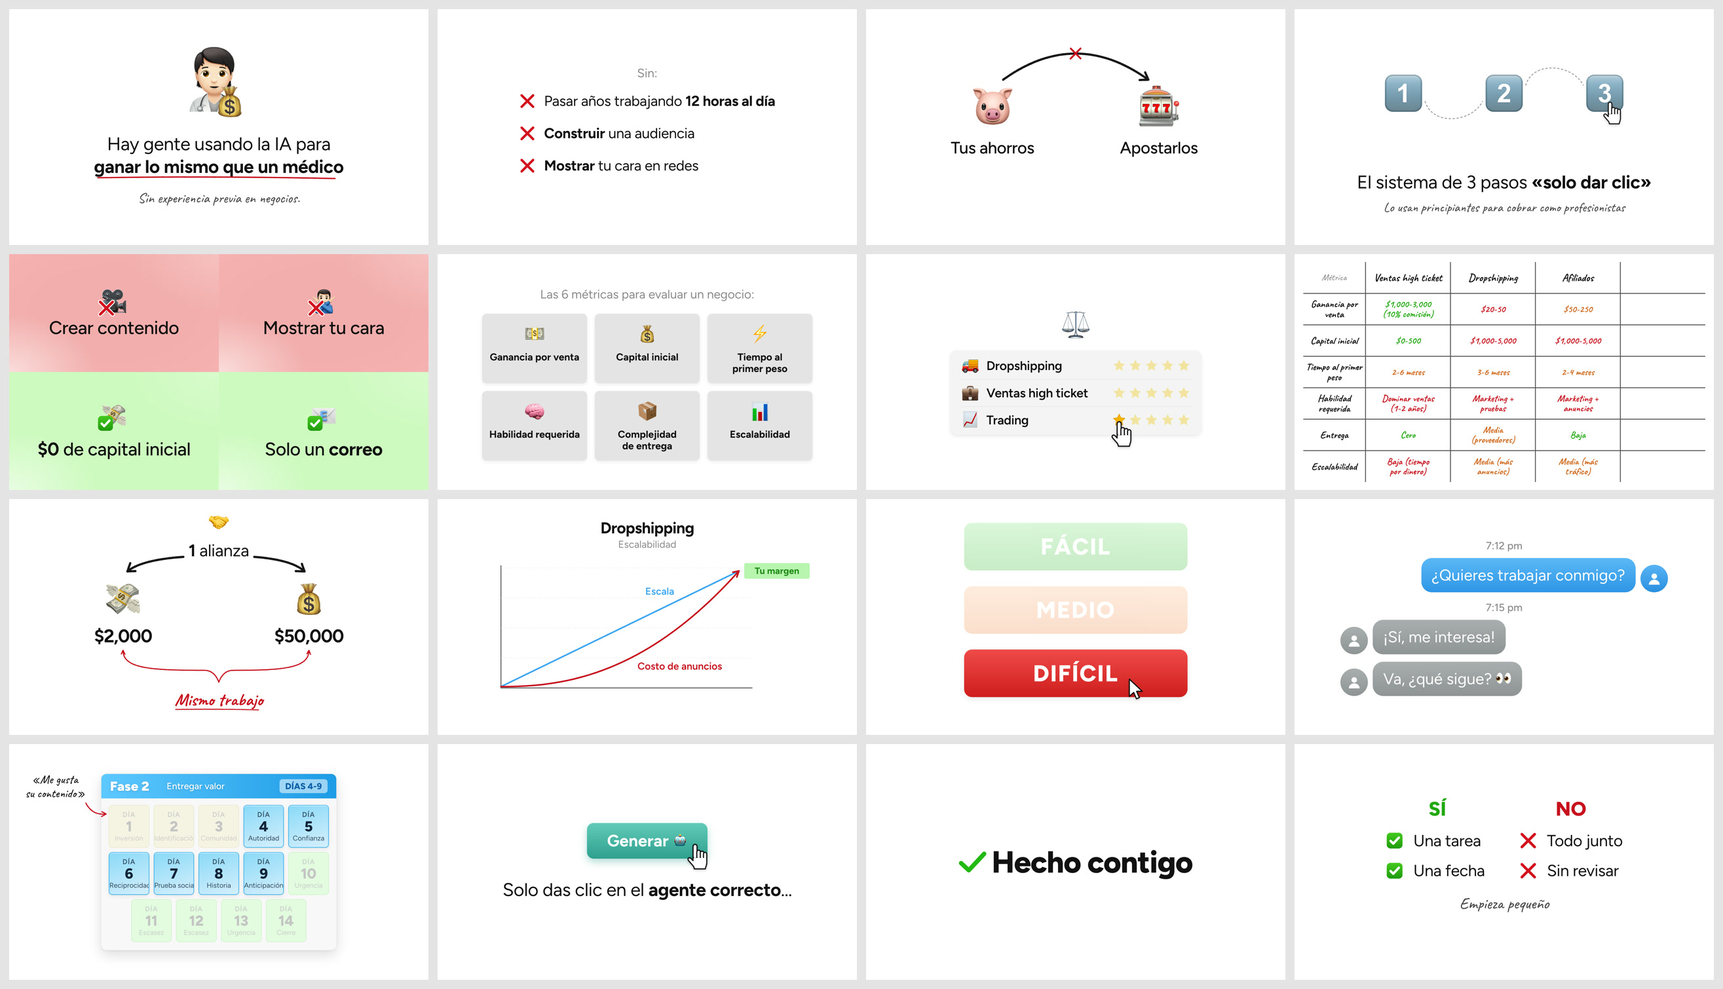
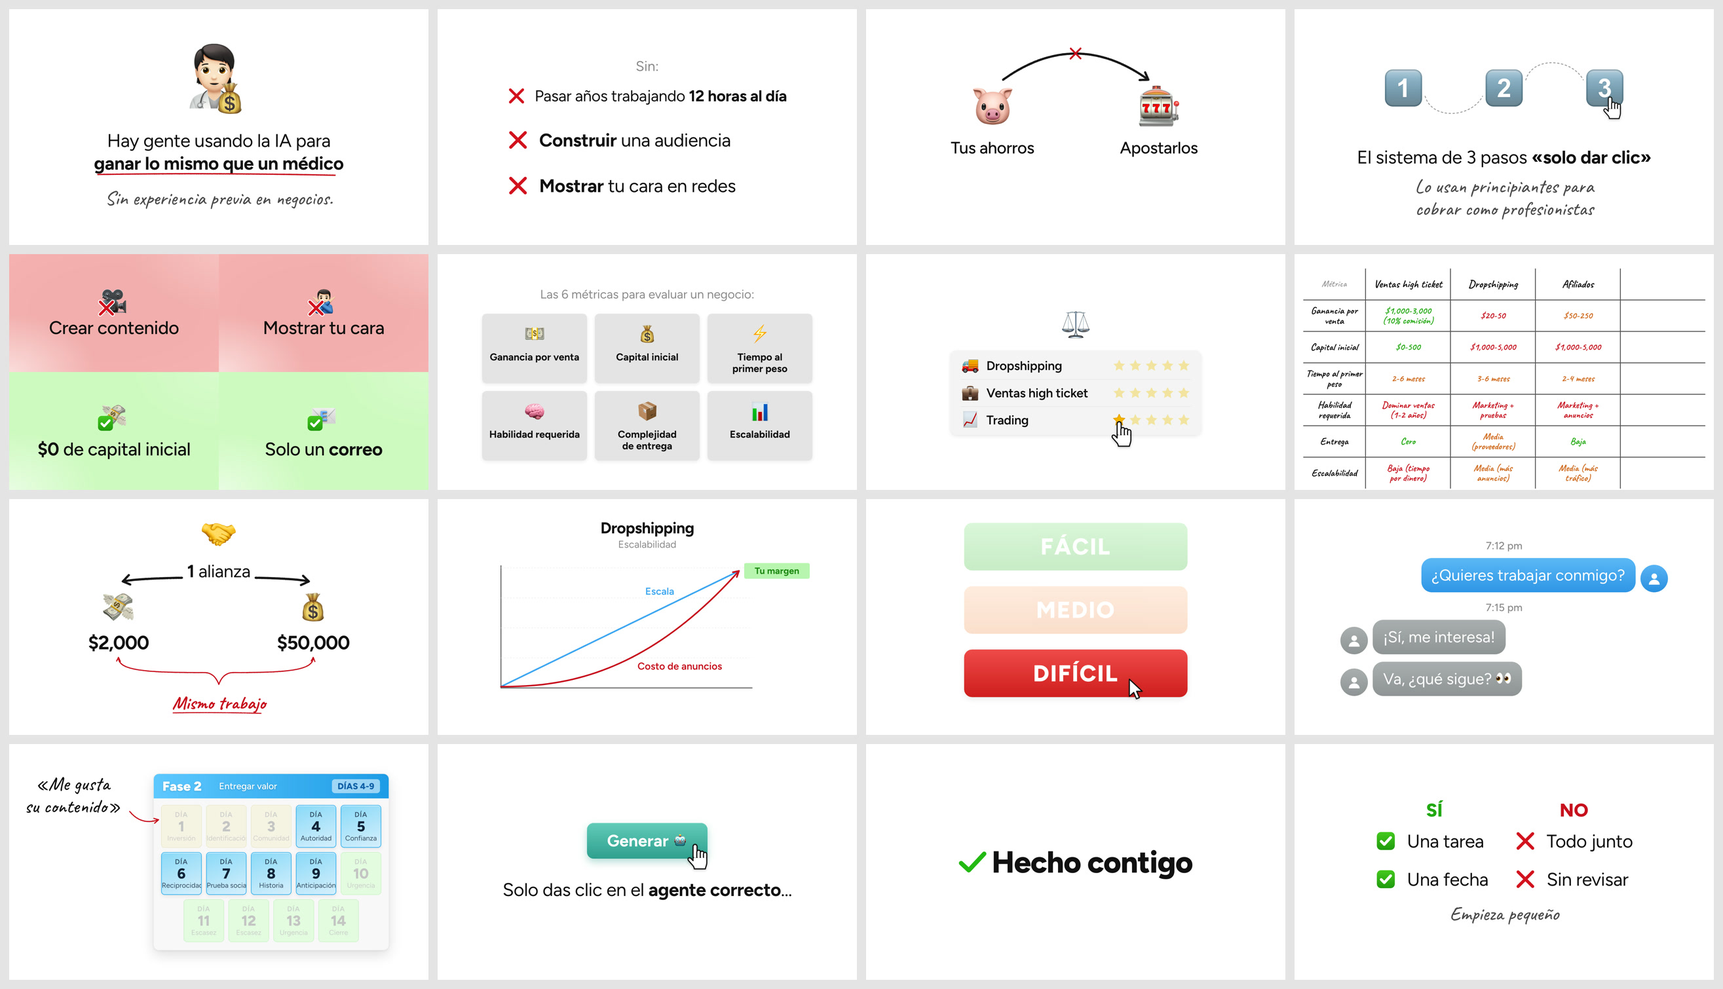
mejora(r13, codex): listas y columnas por ocupación, citas protagonistas, margen seguro y tramo en vivo legible
- Listas cortas y contraste de dos columnas crecen antes de encajar (84 px, bloque centrado);
  QA avisa por debajo de 64 px o del 45% del alto útil.
- Chat 9:16 al 84% del ancho útil en toda burbuja y escala coherente entre láminas (hasta 1.3x).
- La viñeta de una columna sigue su tono (cruz bajo título rojo); QA avisa una palomita bajo título rojo.
- Cita protagonista al tamaño del texto principal; anotaciones con piso de altura de x.
- Margen seguro de 6% arriba y abajo; consigna del tramo EN VIVO a 84 px; bifurcación a escala.
- templates/runtime-legibilidad.js; pruebas/r13-geometria.test.mjs. Suite: 549 aprobadas; demo 100.
- Pendiente: la regla de legibilidad infló la nota gris y bajó la réplica de 8/10 a 6/10
  elementos; se corrige en la ronda 14 (la referencia manda). No se publica a main todavía.

diff --git a/templates/runtime-legibilidad.js b/templates/runtime-legibilidad.js
@@ -1,0 +1,96 @@
+/* R13: crecer antes de encoger. Las medidas se toman con todas las entradas
+   presentes, para que el bloque no cambie de posición entre pasos. */
+function ampliarListas(lam) {
+  if (lam.dataset.tipo !== 'lista') return;
+  const lz = lam.querySelector(':scope > .lienzo'), bloque = lz?.firstElementChild;
+  const listas = [...(bloque?.querySelectorAll('.lista') || [])];
+  if (!listas.length || listas.some(l => l.children.length > 5)) return;
+  const items = listas.flatMap(l => [...l.children]);
+  if (items.some(e => e.textContent.trim().split(/\s+/).length > 10)) return;
+  const vertical = lam.offsetHeight > lam.offsetWidth;
+  const cs = getComputedStyle(lz), alto = lz.clientHeight-parseFloat(cs.paddingTop)-parseFloat(cs.paddingBottom);
+  const contraste = bloque.querySelector('.contraste');
+  if(contraste)contraste.dataset.filaCorta='2';
+  if (contraste && !vertical) {
+    // La nota de una llave larga vive debajo de las columnas: nunca obliga a
+    // reducir ambas columnas para caber en media pantalla.
+    contraste.querySelectorAll('.nota.roja').forEach(n => { bloque.appendChild(n); n.style.marginTop='140px'; });
+    contraste.style.gap='100px';
+  }
+  if (!vertical) {
+    items.forEach(e => { const lista=e.closest('.lista'); if(!lista.dataset.tamExplicito)e.style.fontSize=(e.textContent.trim().length>30?72:84)+'px'; });
+    listas.filter(l=>!l.dataset.gapExplicito).forEach(l => l.style.setProperty('--gap-lista', items.length<=3 ? '110px' : '76px'));
+    bloque.querySelectorAll('.encabezado').forEach(e=>e.style.fontSize='64px');
+    bloque.querySelectorAll('.contraste-titulo').forEach(e=>e.style.fontSize='84px');
+  }
+  const objetivo = lam.offsetHeight*.5;
+  const actual = bloque.getBoundingClientRect().height/escala(lam);
+  if (actual < objetivo && listas[0].children.length>1 && !(listas[0].dataset.gapExplicito && actual/alto>=.45)) {
+    const n = Math.max(...listas.map(l=>l.children.length));
+    listas.forEach(l=>l.style.setProperty('--gap-lista',(parseFloat(getComputedStyle(l).gap)+(objetivo-actual)/(n-1))+'px'));
+  }
+  if (lz.dataset.anclar!=='arriba') {
+    lz.style.justifyContent='center';
+    if (!vertical) { lz.style.paddingTop='68px'; lz.style.paddingBottom='68px'; }
+  }
+}
+
+function ajustarCaveat(lam) {
+  const ctx=document.createElement('canvas').getContext('2d');
+  ctx.font="400 84px Figtree";
+  const base=ctx.measureText('x').actualBoundingBoxAscent;
+  const principal=alturaPrincipal(lam)||base;
+  const notas=[...lam.querySelectorAll('*')].filter(e=>e.textContent.trim() && /Caveat/i.test(getComputedStyle(e).fontFamily) && !/Caveat/i.test(getComputedStyle(e.parentElement).fontFamily));
+  notas.forEach(e=>{
+    if(e.matches('.nota') && getComputedStyle(e).position==='absolute' && e.closest('.lz-calendario')) { e.style.maxWidth='500px'; e.style.left='40px'; e.style.textWrap='balance'; if(lam.offsetHeight>lam.offsetWidth){e.style.maxWidth='760px';} else {const cal=lam.querySelector('.calendario');cal.style.position='relative';cal.style.left='240px';} }
+    const protagonista=e.dataset.a==='cita';
+    const objetivo=protagonista?base:principal*.76;
+    const actual=alturaX(e,lam), tam=parseFloat(getComputedStyle(e).fontSize);
+    if(actual<objetivo) { e.style.setProperty(e.matches('.nota')?'--tn':'font-size',Math.ceil(tam*objetivo/(actual||1)+1)+'px'); if(e.matches('.nota') && alturaX(e,lam)<objetivo)e.style.fontSize='var(--tn)'; }
+  });
+  // Cuando la nota del mapa gana un segundo renglón, cede el aire entre
+  // teclas y titular. La letra conserva su ojo; el conjunto no crece hacia el borde.
+  const titulo=lam.querySelector('.lz-pasos > .pila > .mt-t');
+  const notaMapa=titulo?.nextElementSibling?.querySelector('.nota');
+  if(lam.offsetWidth>lam.offsetHeight && notaMapa && rectsTexto(notaMapa,lam).length>1)titulo.style.marginTop='180px';
+}
+
+function ajustarConsigna(lam) {
+  if(!lam.dataset.vivo)return;
+
+  const bloque=lam.querySelector('.vivo-pres'), reloj=bloque?.querySelector('.vivo-reloj');
+  if(!bloque)return;
+  bloque.style.setProperty('--t-vivo','84px');
+  bloque.style.gap='36px';
+  // El reloj cede espacio antes que la instrucción que debe ejecutar el público.
+  if(reloj)reloj.style.width='360px';
+}
+
+function coherenciaChats(lams) {
+  const escenas=lams.filter(l=>l.offsetHeight>l.offsetWidth && l.querySelector('.lz-chat > .pila > .chat:not(.chat-muro)'));
+  const burbujas=l=>[...l.querySelectorAll('.lz-chat > .pila > .chat:not(.chat-muro) .msj .burbuja')];
+  for(const l of escenas) {
+    const bs=burbujas(l),chat=l.querySelector('.chat'),pila=chat.parentElement;
+    const largo=bs.some(b=>b.textContent.trim().split(/\s+/).length>8);
+    bs.forEach(b=>b.closest('.msj').classList.toggle('msj-ancho',largo));
+    chat.style.gap=bs.some(b=>b.closest('.msj').classList.contains('msj-ancho'))?'64px':'160px';
+    if(bs.length===1 && bs[0].textContent.trim().split(/\s+/).length>8)bs[0].style.fontSize='100px';
+    const alto=l.offsetHeight-640;
+    for(let n=0;n<25 && pila.getBoundingClientRect().height/escala(l)>alto;n++) {
+      bs.forEach(b=>b.style.fontSize=(parseFloat(getComputedStyle(b).fontSize)*.96)+'px');
+    }
+  }
+  const chats=escenas.flatMap(burbujas);
+  if(!chats.length)return;
+  const minimo=Math.min(...chats.map(b=>parseFloat(getComputedStyle(b).fontSize)));
+  chats.forEach(b=>{if(parseFloat(getComputedStyle(b).fontSize)>minimo*1.3)b.style.fontSize=(minimo*1.3)+'px';});
+}
+
+function respetarMargen(lam) {
+  if(lam.offsetHeight>lam.offsetWidth||lam.dataset.vivo)return;
+  const lz=lam.querySelector(':scope > .lienzo'), bloque=lz?.firstElementChild;
+  if(!bloque||bloque.matches('.sangre,.cuadrantes'))return;
+  const r=caja(bloque,lam),m=lam.offsetHeight*.06+1;
+  const dy=r.y<m?m-r.y:r.y+r.h>lam.offsetHeight-m?lam.offsetHeight-m-r.y-r.h:0;
+  if(dy){bloque.style.position='relative';bloque.style.top=((parseFloat(bloque.style.top)||0)+dy/(parseFloat(getComputedStyle(bloque).zoom)||1))+'px';}
+}

diff --git a/templates/runtime.js b/templates/runtime.js
@@ -611,7 +611,7 @@
   // pisa y un aviso. Antes el borde la regresaba ENCIMA de la tarjeta y su gancho tachaba la propia nota [r5, muro 14].
   const OBST_ANOT = '.emo, img, .t, .t-remate, .llamada-tarjeta, .meses, .nota, .item, .etiqueta, .valor, .encabezado, .cifra, .etiqueta-chica, .tarjeta, .opcion, .burbuja, .titulo-marca, .fuente, .captura, .post, .sello, .tabla, .rejilla, .bento, .cuadro, .grafica svg, .dia';
   function colocarAnotaciones(lam) {
-    const W = lam.offsetWidth, H = lam.offsetHeight, m = 40, aire = 130;
+    const W = lam.offsetWidth, H = lam.offsetHeight, m = Math.max(40, H * .06), aire = 130;
     const cruce = (a, b) => Math.max(0, Math.min(a.x + a.w, b.x + b.w) - Math.max(a.x, b.x)) * Math.max(0, Math.min(a.y + a.h, b.y + b.h) - Math.max(a.y, b.y));
     const gapR = (a, b) => Math.hypot(Math.max(0, a.x - (b.x + b.w), b.x - (a.x + a.w)), Math.max(0, a.y - (b.y + b.h), b.y - (a.y + a.h)));
     const puestas = [];
@@ -662,7 +662,7 @@
       if (base > minimo) tams.push(minimo);
       for (const tn of tams) {
         if (tn !== base) n.style.setProperty('--tn', tn + 'px');
-        for (const ancho of [760, 640, 500, 400, 320]) {
+        for (const ancho of [760, 640, 500, 400, 320, W-2*m]) {
           n.style.maxWidth = ancho + 'px';
           elegido = lados.flatMap(lado => [0, -160, 160, -320, 320, -480, 480].map(d => probar(lado, d))).find(c => c.ok) || null;
           if (elegido) break;
@@ -672,7 +672,7 @@
       if (!elegido) {
         // Abre una banda real bajo el bloque; no achica letra ni acorta flechas.
         const bloque=lam.querySelector(':scope > .lienzo')?.firstElementChild;
-        n.style.maxWidth='760px'; n.style.setProperty('--tn',base+'px');
+        n.style.maxWidth=(W-2*m)+'px'; n.style.setProperty('--tn',minimo+'px');
         if(bloque && bloque.contains(el)){
           const desplazamiento=Math.min(Math.max(0,A0.y+A0.h+aire+n.offsetHeight-(H-m)),Math.max(0,caja(bloque,lam).y-m));
           if(desplazamiento>0){
@@ -774,6 +774,7 @@
   }
 
   function encajar(lam) {
+    if (lam.dataset.vivo) return;
     // En sala se divide el calendario o la fila de meses; no se achican sus celdas.
     if (document.body.classList.contains('sala') && ['calendario', 'meses'].includes(lam.dataset.tipo)) return;
     [lam, ...lam.querySelectorAll('.escena')].forEach(esc => esc.querySelectorAll(':scope > .lienzo').forEach(lz => {
@@ -794,7 +795,7 @@
       });
       const w = (x1 - x0) / s, hh = (y1 - y0) / s;
       const k = Math.min(1, aw / w, (ah + 40) / hh);
-      if (k < 0.995) { h.style.zoom = k.toFixed(3); if (esc === lam) lam.dataset.encaje = k.toFixed(2); }
+      if (k < 0.995) { h.style.zoom = ((parseFloat(getComputedStyle(h).zoom)||1)*k).toFixed(3); if (esc === lam) lam.dataset.encaje = k.toFixed(2); }
     }));
   }
 
@@ -1073,15 +1074,17 @@
     lams.forEach(l => { fijarDescargos(l); ajustarChatVertical(l); ajustarPalabrasChat(l); });
     // Una lámina con un error no tumba al resto: se avisa y se sigue
     lams.forEach(l => { try { abrirEspacioSubrayados(l,l); igualarFilas(l); } catch (e) { avisos.push(`lámina ${+l.dataset.i + 1}: fila (${e.message})`); } });
+    lams.forEach(l => { ampliarListas(l); ajustarConsigna(l); });
+    coherenciaChats(lams);
     lams.forEach(l => { try { ampliarFilas(l); alinearFlujoMixto(l); } catch (e) { avisos.push(`lámina ${+l.dataset.i + 1}: escala de fila (${e.message})`); } });
     lams.forEach(l => { try { colocarSignos(l); } catch (e) { avisos.push(`lámina ${+l.dataset.i + 1}: signos (${e.message})`); } });
     lams.forEach(l => { try { igualarCuadros(l); } catch (e) { avisos.push(`lámina ${+l.dataset.i + 1}: cuadrantes (${e.message})`); } });
     lams.forEach(l => { try { ajustarCifras(l); } catch (e) { avisos.push(`lámina ${+l.dataset.i + 1}: cifra (${e.message})`); } });
-    lams.forEach(l => { try { ajustarNotasLlave(l); } catch (e) { avisos.push(`lámina ${+l.dataset.i + 1}: nota de llave (${e.message})`); } });
+    lams.forEach(l => { try { ajustarCaveat(l); ajustarNotasLlave(l); } catch (e) { avisos.push(`lámina ${+l.dataset.i + 1}: nota de llave (${e.message})`); } });
     lams.forEach(l => { try { ajustarTablas(l); } catch (e) { avisos.push(`lámina ${+l.dataset.i + 1}: tabla (${e.message})`); } });
     lams.forEach(l => { try { ajustarFirma(l); } catch (e) { avisos.push(`lámina ${+l.dataset.i + 1}: firma (${e.message})`); } });
     lams.forEach(l => { try { encajar(l); } catch (e) { avisos.push(`lámina ${+l.dataset.i + 1}: encaje (${e.message})`); } });
-    lams.forEach(l => { try { reservarSelloLibre(l); } catch (e) { avisos.push(`lámina ${+l.dataset.i + 1}: sitio del sello (${e.message})`); } });
+    lams.forEach(l => { try { respetarMargen(l); reservarSelloLibre(l); } catch (e) { avisos.push(`lámina ${+l.dataset.i + 1}: sitio del sello (${e.message})`); } });
     // Primero las láminas normales; el foco, después: su fondo copia el sello y las notas ya colocados de la anterior
     const esFoco = l => !!l.querySelector(':scope > .escena.clon');
     const capa = l => {

diff --git a/templates/base.css b/templates/base.css
@@ -822,3 +822,24 @@ body.sala .objeto-logos img { height: 52px !important; }
 .lamina:not(.f-vertical) .lz-lista[data-anclar="arriba"] .encabezado { margin-bottom:100px; }
 /* La frase protagonista usa un plumón de 6 px [ref_10], legible al reducir. */
 .lamina:has(.lz-idea) .capa-mano path[data-clase="subrayado"] { stroke-width:6px; }
+
+/* R13: 84% del ancho útil para cada burbuja. En mensajes largos el avatar
+   pasa encima y deja ancho real al texto antes de reducir su letra. */
+.f-vertical .lienzo.lz-chat { padding-left:30px; padding-right:30px; }
+.f-vertical .lienzo.lz-chat:has(.chat-tarjeta) { padding-left:90px; padding-right:90px; }
+.f-vertical .lz-chat > .pila > .chat:not(.chat-muro) .burbuja { width:84%; max-width:84%; }
+.f-vertical .lz-chat > .pila > .chat:not(.chat-muro) .msj {
+  width:100%; position:relative; display:flex; flex-direction:column;
+  align-items:center; padding-top:151px; gap:0;
+}
+.f-vertical .lz-chat > .pila > .chat:not(.chat-muro) .yo-av,
+.f-vertical .lz-chat > .pila > .chat:not(.chat-muro) .otro-av {
+  width:var(--av,135px); flex:none; position:absolute; top:0;
+}
+.f-vertical .lz-chat > .pila > .chat:not(.chat-muro) .yo-av { right:8%; }
+.f-vertical .lz-chat > .pila > .chat:not(.chat-muro) .otro-av { left:8%; }
+.f-vertical .lz-chat > .pila > .chat:not(.chat-muro) .msj:not(.msj-ancho) {
+  flex-direction:row; align-items:flex-end; padding-top:0; gap:16px;
+}
+.f-vertical .lz-chat > .pila > .chat:not(.chat-muro) .msj:not(.msj-ancho) .yo-av,
+.f-vertical .lz-chat > .pila > .chat:not(.chat-muro) .msj:not(.msj-ancho) .otro-av { position:static; }

diff --git a/templates/runtime-filas.js b/templates/runtime-filas.js
@@ -3,7 +3,7 @@
 function ampliarFilas(lam) {
   if (lam.offsetWidth < lam.offsetHeight) return;
   const tipos = ['pasos', 'flujo', 'bifurcacion', 'opciones', 'rejilla', 'lista', 'circulos'];
-  if (!tipos.includes(lam.dataset.tipo)) return;
+  if (!tipos.includes(lam.dataset.tipo) || lam.dataset.tipo === 'lista') return;
   const lz = lam.querySelector(':scope > .lienzo');
   if (lam.dataset.tipo === 'opciones' && lz?.children.length > 1) {
     const hijos = [...lz.children], envoltura = document.createElement('div');
@@ -30,10 +30,11 @@ function ampliarFilas(lam) {
   });
   // Las teclas y el mapa ya están calibrados; un flujo sin flechas heredaba 120 px.
   if (['flujo', 'bifurcacion'].includes(lam.dataset.tipo)) {
-    fila.querySelectorAll('.emo').forEach(e => {
+    (lam.dataset.tipo==='bifurcacion'?bloque:fila).querySelectorAll('.emo').forEach(e => {
       if (!e.closest('.insignia') && e.offsetWidth < 210) e.style.setProperty('--s', '210px');
     });
   }
+  if(lam.dataset.tipo==='bifurcacion') { fila.style.marginTop='40px'; bloque.querySelectorAll('.nodo .emo').forEach(e=>e.style.setProperty('--s',e.closest('.fila')?'180px':'200px')); bloque.querySelectorAll('.etiqueta').forEach(e=>e.style.fontSize='84px'); bloque.querySelectorAll('.nota.roja').forEach(e=>e.style.marginTop='200px'); }
   const s = escala(lam), cajas = nodos.map(e => e.getBoundingClientRect());
   const anchoTinta = (Math.max(...cajas.map(r => r.right)) - Math.min(...cajas.map(r => r.left))) / s;
   const b = bloque.getBoundingClientRect();

diff --git a/references/ESTILO.md b/references/ESTILO.md
@@ -338,3 +338,33 @@ QA avisa runs `{v:…}` sin cifra, moneda, porcentaje, sí/ok/✓ o verbo de res
 lograr). `{r:…}` pide una cifra negativa, no/✕, pérdida explícita o señal conectada (flecha, llave o subrayado).
 También avisa cuatro palabras largas consecutivas en mayúsculas en idea/lista/cifra/pasos. Sellos, secciones,
 stack, calendario, huecos, siglas cortas o con dígitos quedan fuera. Son avisos de lectura, no errores.
+
+### Legibilidad y ocupación verificable (ronda 13)
+
+Estas medidas se aplican después del encaje, no solo al CSS nominal:
+
+| Composición | Objetivo del motor | Aviso de QA |
+|---|---|---|
+| Lista de ≤5 renglones, cada uno ≤10 palabras | 72–84 px en 16:9; bloque centrado | Letra <64 px a 1920 o alto <45% del útil |
+| Contraste de dos columnas cortas | Misma ocupación; título acompaña; nota debajo | Mismos pisos; ✅ bajo título rojo |
+| Chat normal 9:16 | Cada burbuja al 84% del ancho útil; avatar arriba si hace falta | Fuera de 82–86%; escala del deck >1.3× |
+| Caveat con contenido | x ≥75% de la principal | x por debajo de 75% |
+| Cita protagonista | x de texto principal (Figtree 84 px de referencia) | x por debajo de 100% |
+| Contenido 16:9 | ≥6% arriba y abajo | Contenido medido fuera del margen |
+| Consigna en vivo | 84 px; reloj de 360 px | Consigna <64 px a 1920 |
+| Bifurcación horizontal | Origen de 200 px, rótulos de 84 px antes de encajar | Origen <170 px o rótulo <64 px efectivos |
+
+El alto de lista reserva todos sus pasos, aunque todavía no se vean. Un anclaje superior
+explícito conserva su intención. Un tamaño explícito se respeta y QA avisa si incumple.
+El encabezado gris crece con los renglones; el blanco restante se reparte alrededor del bloque.
+No agrandes primero las separaciones si todavía tienes letra pequeña.
+
+La regla del chat se refiere a conversaciones normales, no al muro, al celular ilustrado ni a
+la tarjeta de prompt. Los mensajes largos usan el ancho antes de reducir la letra; la escala
+común se calcula entre las conversaciones del deck completo, aunque haya otras escenas en medio.
+
+Referencia medida por caja de tinta, sin firma de esquina: lista tachada `m_256`, 48.33% de
+alto y márgenes 26.39/25.28%; `ref_95` (primer paso), 13.89/63.98%; `ref_1760`, 6.02/30.56%.
+El mínimo de 6% protege el contenido; los fondos a sangre y la firma tienen sus zonas propias.
+El QA automático de margen cubre texto principal, listas, notas, burbujas, emojis, rótulos,
+anotaciones y tramo en vivo. No sustituye revisar imágenes, tablas y trazos en las hojas.

diff --git a/LECCIONES.md b/LECCIONES.md
@@ -291,3 +291,23 @@ de una fuente no puede borrar el beat que antes ocupaba: conserva pasos y voz o 
 - **Cómo se comprobó**: decks nuevos antes y después, capturas dentro de Codex, hojas finales y de pasos abiertas, pruebas de regresión vistas fallar antes del arreglo y réplica medida contra sus cuadros.
 
 - **Cierre adicional de la ronda 9**: una lista de 20 palabras con tres viñetas numeradas suma 23 visibles. El preflight ahora cuenta las listas simples con el mismo criterio; la explicación se conserva en voz y el texto se comprime. Esto se encontró después del primer render de una clase: su primera nota no se reemplaza por la corregida.
+
+## 2026-09-25 · El 100 no detectaba letra pequeña con mucho blanco (ronda 13)
+
+- **Regla:** una lista de hasta cinco renglones cortos crece antes de encajar. En horizontal,
+  objetivo de 72–84 px, piso QA de 64 y bloque de al menos 45% del alto útil. El contraste
+  comparte la regla, incluido su encabezado; la llave larga ocupa el ancho del conjunto.
+- **Regla:** la burbuja vertical normal ocupa 82–86% del ancho útil. El avatar puede subir
+  encima de un mensaje largo; no se roba ese ancho al texto. La escala entre chats del mismo
+  deck no varía más de 1.3×. Medir el contenedor del chat no basta.
+- **Regla:** Caveat se mide por altura de x, no por tamaño nominal: 75% de la principal;
+  la cita protagonista alcanza la principal. El reloj cede espacio a la consigna de 84 px.
+- **Regla:** el borde superior/inferior del contenido de 16:9 conserva al menos 6%. La nota
+  puede usar más ancho antes de empujar las burbujas. No se suma margen a costa de encoger
+  otra vez toda la composición. Una columna roja no recibe una marca verde por omisión.
+- **Evidencia:** el cuadro de lista tachada ocupa 48.3% del alto; sus márgenes de tinta son
+  26.4% arriba y 25.3% abajo. En diez cuadros de réplica el menor margen superior es 6.02%.
+  La firma de la esquina queda fuera de esta medición de tinta.
+- **Límite:** rehacer el render después de cambiar el motor también es un retoque. Un primer
+  100 no acredita «sin retoques» si el HTML final cambió. Una oferta de ejemplo puede enseñar
+  muestra y demostración; no permite inventar credenciales ni resultados para callar QA.

diff --git a/CLAUDE.md b/CLAUDE.md
@@ -215,3 +215,25 @@ Desde Codex/sandbox: consulta [PROTOCOLO, Desde Codex / sandbox](references/PROT
   de la ráfaga. Los umbrales de elementos no cambian; los resultados se reportan en el informe de ejecución.
 - Regresiones de esta ronda: `pruebas/r12-*.test.mjs`. Los fixtures viven en directorios temporales
   del sistema; no leen los decks externos del encargo. Ningún 100 automático equivale a firma profesional.
+
+## Ronda 13 · Ocupación, manuscrita y chat coherente
+
+- `templates/runtime-legibilidad.js` se inserta junto con `runtime-filas.js` en el marcador
+  `FILAS` de `runtime.js`. Amplía listas cortas y contrastes antes de encajar; reserva todos
+  los pasos, centra el bloque y separa la nota de llave de la columna estrecha.
+- `layouts-texto.mjs` conserva tamaños y separaciones explícitos mediante atributos internos;
+  no son campos nuevos del deck. `layouts-interfaces.mjs` elige cruz para la columna roja.
+- `coherenciaChats` da 84% del ancho útil a cada burbuja vertical normal; con mensajes largos
+  pone los avatares encima y armoniza la letra del deck a una diferencia máxima de 1.3×.
+  Los muros, celulares y tarjetas de prompt conservan sus composiciones propias.
+- `ajustarCaveat` amplía el contenido manuscrito por altura de x, incluyendo citas, notas y
+  rótulos. La cita protagonista toma la referencia de Figtree principal de 84 px. En mapas,
+  una nota que crece a dos renglones reduce el aire anterior al titular, no su letra.
+- `ajustarConsigna` prioriza texto de 84 px sobre el reloj; `encajar` omite el lienzo oculto
+  del tramo en vivo. `respetarMargen` y `colocarAnotaciones` reservan 6% arriba/abajo en 16:9.
+  El encaje conserva el zoom de crecimiento anterior en vez de sustituirlo.
+- `medidas-r11.mjs` incorpora medidas y avisos R13: letra/ocupación de lista, sentido de
+  columna, ancho y escala del chat, x manuscrita, margen, consigna y origen de bifurcación.
+  QA y preflight ejecutan la misma función; `saltosEscala` mide también chats separados.
+- `pruebas/r13-geometria.test.mjs`: regresiones positivas y negativas con Chromium y fixtures
+  temporales autónomos. El historial del primer render permanece aunque cambie el motor.

diff --git a/references/PROTOCOLO.md b/references/PROTOCOLO.md
@@ -315,3 +315,12 @@ El ciclo cierra solo cuando la última corrida da `estado: listo` con el mismo `
 Las láminas marcadas NO-VALE nunca son evidencia.
 
 Los PNG de `render.mjs` de una réplica no son evidencia: si ves `laminas-NO-VALE/`, corre `node scripts/comparar.mjs <carpeta-ref>` y publica su `comparar.json`.
+
+### Primer render y cambios del motor
+
+Guarda el historial y las hojas de la primera captura antes de cualquier ajuste posterior.
+Cambiar el motor, aunque el deck no cambie, invalida la afirmación «sin retoques» del resultado
+final. Reporta por separado primera nota, nota final, errores/avisos y revisión visual de todas
+las hojas finales y de pasos. Una captura diagnóstica mediante `render.mjs` tras un bloqueo de
+`armar.mjs` no se convierte por ello en entrega comercial aprobada. La credibilidad ausente se
+reporta: no se rellena con cifras de ejemplo, clientes ficticios ni resultados de una plantilla.
